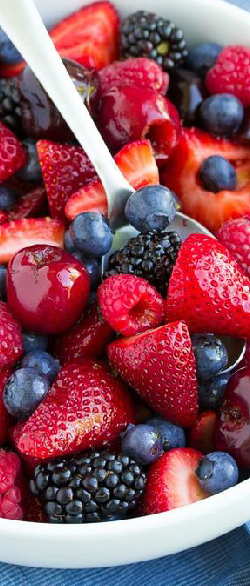
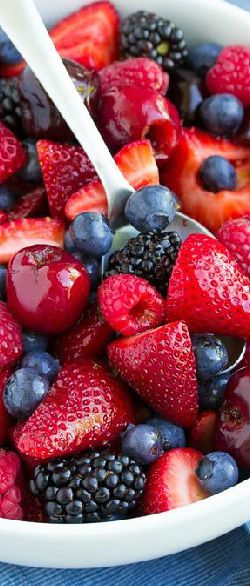
圖片優化

diff --git a/singleseason/index.html b/singleseason/index.html
@@ -450,8 +450,8 @@
         <div class="my-slider">
             <ul>                
                 <li><img src="img/slider1-s.jpg" alt=""></li>
-                <li><img src="img/slider2.jpg" alt=""></li>
-                <li><img src="img/slider3.jpg" alt=""></li>
+                <li><img src="img/slider2-s.jpg" alt=""></li>
+                <li><img src="img/slider3-s.jpg" alt=""></li>
             </ul>
         </div>
     </div>
@@ -462,22 +462,22 @@
         <div class="pru">        
             <div class="title"><img src="img/TITLE_01_PC.png"alt=""></div>                   
             <div class="contain">
-                <div class="pic"><img src="img/propc-05.jpg" alt="">
+                <div class="pic"><img src="img/propc-05-s.jpg" alt="">
                     <div class="picword">
                         <p>蓬鬆海綿蛋糕胚，口感綿密層次多，純手工的紮實，每一口都能帶給您最溫柔的感動。</p>
                     </div>
                 </div>
-                <div class="pic"><img src="img/propc-06.jpg" alt="">
+                <div class="pic"><img src="img/propc-06-s.jpg" alt="">
                     <div class="picword">
                         <p>特製鮮奶油，加入進口瑞士巧克力，香醇略帶苦澀的口感讓蛋糕甜而不膩，嘗起來更加美味。</p>
                     </div>
                 </div>
-                <div class="pic"><img src="img/propc-07.jpg" alt="">
+                <div class="pic"><img src="img/propc-07-s.jpg" alt="">
                     <div class="picword">
                         <p>特選莓果，香甜帶著微微酸澀，幸福滋味讓人重返初戀時光，在寒冬中回想起掌心的溫暖。</p>
                     </div>
                 </div>
-                <div class="pic"><img src="img/propc-08.jpg" alt="">
+                <div class="pic"><img src="img/propc-08-s.jpg" alt="">
                     <div class="picword">
                         <p>精選顆顆飽滿的大湖草莓，酸中帶甜的內餡不斷挑動味蕾，讓幸福在舌尖上跳躍。</p>
                     </div>
